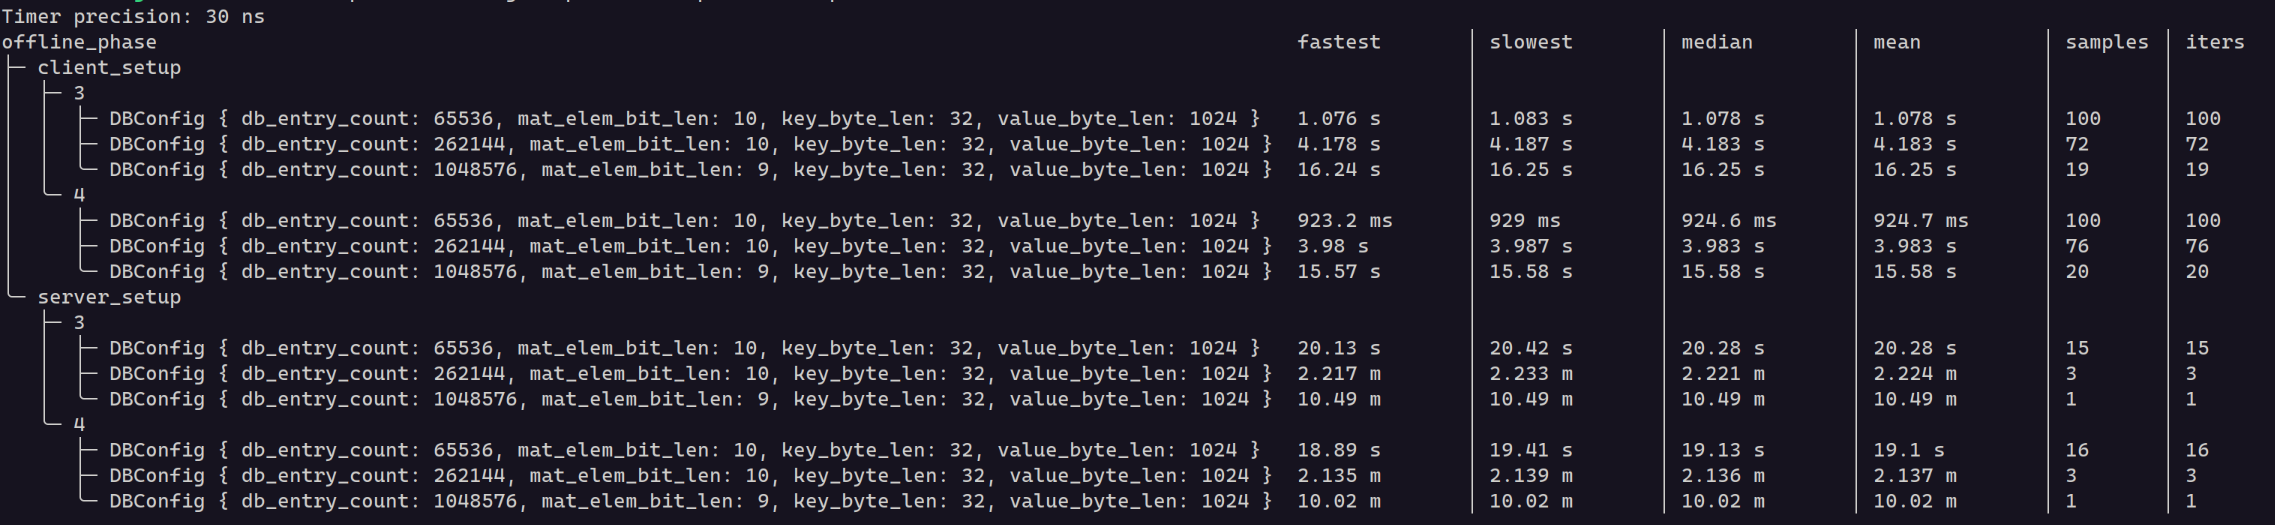
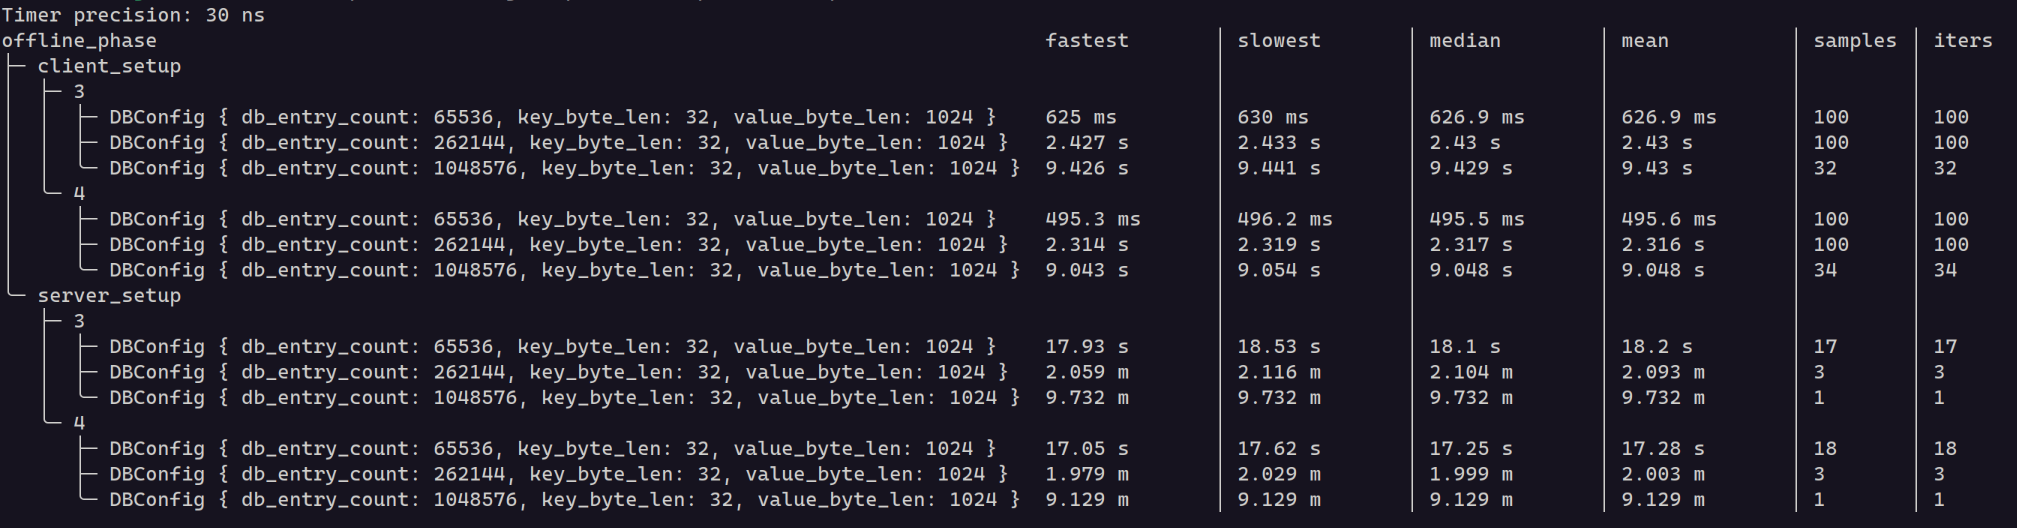
Update benchmark results

diff --git a/README.md b/README.md
@@ -38,11 +38,11 @@ and this implementation of ChalametPIR is compiled with specified compiler, in `
 
 Step | `(a)` Time Taken on `aarch64` server | `(b)` Time Taken on `x86_64` server | Ratio `a / b`
 :-- | --: | --: | --:
-`server_setup` | 10.49 minutes | 23.6 minutes | 0.44
-`client_setup` | 16.25 seconds | 17.98 seconds | 0.9
-`client_query` | 262.5 milliseconds | 2.13 seconds | 0.12
-`server_respond` | 18.58 milliseconds | 33.19 milliseconds | 0.56
-`client_process_response` | 11.69 microseconds | 16.82 microseconds | 0.7
+`server_setup` | 9.73 minutes | 22.11 minutes | 0.44
+`client_setup` | 9.43 seconds | 10.47 seconds | 0.9
+`client_query` | 309 milliseconds | 2.57 seconds | 0.12
+`server_respond` | 18.01 milliseconds | 32.16 milliseconds | 0.56
+`client_process_response` | 11.73 microseconds | 16.75 microseconds | 0.7
 
 > [!NOTE]
 > In above table, I show only the median timing measurements, while the DB is encoded using a 3 -wise XOR Binary Fuse Filter. For more results, with more database configurations, see benchmarking [section](#benchmarking) below.
@@ -92,12 +92,6 @@ cargo bench --all-features --profile optimized # For benchmarking the online pha
 ![offline-phase](./bench-results/offline.m8g.8xlarge.png)
 ---
 ![online-phase](./bench-results/online.m8g.8xlarge.png)
-
-
-### On AWS EC2 Instance `m7i.8xlarge` (x86_64)
-![offline-phase](./bench-results/offline.m7i.8xlarge.png)
----
-![online-phase](./bench-results/online.m7i.8xlarge.png)
 
 > [!NOTE]
 > More about AWS EC2 instances @ https://aws.amazon.com/ec2/instance-types.
